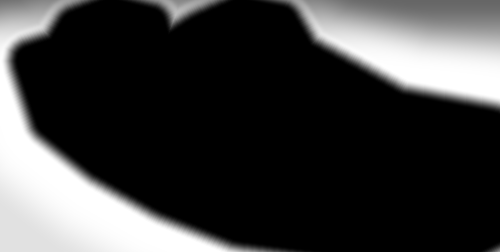
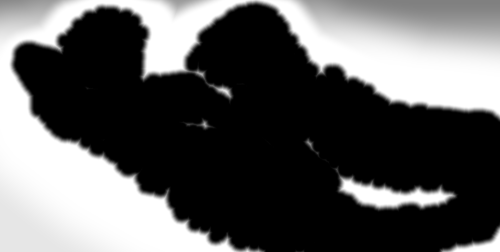
Woodland two-shot: her eyes, the grass between them, upright loading
- Her eye openings reach her lower lids: her irises are large, and an
  opening cut above their lower rims left a dark arc of the old iris
  behind when her eyes moved toward him.
- Their bed's grass sways where it really is: keyed to the figures' own
  pixels (colour-segmented), not the coarse body outline that also covered
  the grass between them and round their hands. The two-shot now moves
  5-7% of the frame in half a second (the second wide: 5.2%), from 2%.
- Her head turned to him in the wide loads on its own; the two-shot's art
  loads only for screens that show it (upright never does), and only with
  her look in the wide (a turn away must not undo it).

Claude-Session: https://claude.ai/code/session_01KQPjgRSBPiZRUxNQL4z1Q2

diff --git a/src/memory/runtime.ts b/src/memory/runtime.ts
@@ -7,7 +7,8 @@ import { memorySchema } from './sheets';
 import { sheetSource } from './theatre';
 import type { Lifecycle, MemoryFrame, ReleaseReason } from './types';
 import type { WindowLayer, LayerKind } from '../world/MemoryWindow';
-import { LivingScene, type FigureArt, type LivingArt, type NearArt, type Eye } from './living/LivingScene';
+import { LivingScene, type FigureArt, type HeadCels, type LivingArt, type NearArt, type Eye } from './living/LivingScene';
+import { UPRIGHT } from '../world/living/Immersion';
 import { WOODLAND as WOODLAND_SPEC, type LivingSpec } from './living/woodland';
 
 /**
@@ -206,7 +207,7 @@ async function manifestOf(base: string, art: string): Promise<ArtManifest> {
  * Fetch a memory's art ahead (when its line is armed), so beginning it waits on nothing but
  * decoding. Sounds are fetched by the voices' own loader when the memory is prepared.
  */
-export async function prefetch(id: string, variant: string, host: Pick<RuntimeHost, 'quality' | 'base'>): Promise<void> {
+export async function prefetch(id: string, variant: string, host: Pick<RuntimeHost, 'quality' | 'base' | 'screen'>): Promise<void> {
   const def = MEMORIES[id];
   if (!def) return;
   const v = def.variants.includes(variant) ? variant : def.variants[0];
@@ -216,15 +217,20 @@ export async function prefetch(id: string, variant: string, host: Pick<RuntimeHo
     const manifest = await manifestOf(base, def.art);
     const lm = manifest.living?.[v];
     const wall = manifest.variants[v].filter((l) => !(lm && l.name === 'scene')).map((l) => ({ file: l.file, suffix }));
-    const files = lm ? [...wall, ...livingFiles(lm, suffix)] : wall;
+    const files = lm ? [...wall, ...livingFiles(lm, suffix, upright(host))] : wall;
     await Promise.all(files.map((f) => fetchBlob(`${base}${def.art}/${f.file}${f.suffix}.webp`)));
   } catch {
     /* it will be fetched again when it is needed */
   }
 }
 
-/** A living scene's files (maps, grade and sky have one size only). */
-function livingFiles(lm: LivingManifest, suffix: string): { file: string; suffix: string }[] {
+/** An upright screen (it never shows the two-shot: its 16:9 frame would hold one face there). */
+function upright(host: Pick<RuntimeHost, 'screen'>): boolean {
+  return !!host.screen && host.screen.width / host.screen.height < UPRIGHT;
+}
+
+/** A living scene's files (maps, grade and sky have one size only); the two-shot's only for a screen that shows it. */
+function livingFiles(lm: LivingManifest, suffix: string, upright = false): { file: string; suffix: string }[] {
   const out = [{ file: lm.plate, suffix }, { file: lm.maps, suffix: '' }];
   if (lm.grade) out.push({ file: lm.grade, suffix: '' });
   if (lm.after) out.push({ file: lm.after, suffix });
@@ -233,7 +239,8 @@ function livingFiles(lm: LivingManifest, suffix: string): { file: string; suffix
   if (lm.flowers) out.push({ file: lm.flowers.file, suffix });
   if (lm.clouds) out.push({ file: lm.clouds.mask, suffix: '' }, { file: lm.clouds.file, suffix: '' }, { file: lm.clouds.after, suffix: '' });
   if (lm.order) out.push({ file: lm.order, suffix: '' });
-  if (lm.near && lm.figures?.heads) out.push({ file: lm.near.file, suffix }, { file: lm.near.lids, suffix }, { file: lm.near.heads.file, suffix }, { file: lm.near.ground.file, suffix: '' }, { file: lm.near.maps, suffix: '' }, { file: lm.figures.heads.file, suffix });
+  if (lm.figures?.heads) out.push({ file: lm.figures.heads.file, suffix });
+  if (lm.near && lm.figures?.heads && !upright) out.push({ file: lm.near.file, suffix }, { file: lm.near.lids, suffix }, { file: lm.near.heads.file, suffix }, { file: lm.near.ground.file, suffix: '' }, { file: lm.near.maps, suffix: '' });
   return out;
 }
 
@@ -298,18 +305,29 @@ export async function prepare(id: string, variant: string, host: RuntimeHost): P
       ]);
       // (The pencil's order is mipmapped, unlike the scene's layers: seen from across the room.)
       const orderP = lm.order ? loadLayer(url(lm.order, ''), { data: true }).then((r) => (extra.push(r), r)) : Promise.resolve(null);
-      // The two-shot and her look (drawn in either shot): all of it, or none (the wide then plays
-      // as it was, her head as the panel has it; the memory still plays).
+      // Her look in the wide (her head turned to him at its size), if it can be had (else her
+      // head stays as the panel has it; the memory still plays).
+      const headsP = (async (): Promise<HeadCels | null> => {
+        const h = lm.figures?.heads;
+        if (!h) return null;
+        try {
+          const r = await loadLayer(url(h.file), { living: true });
+          extra.push(r);
+          return { texture: r.texture, box: h.box, cells: h.cells };
+        } catch {
+          return null;
+        }
+      })();
+      // The two-shot: all of it, or none (its shot is then the wide), and only for a screen that
+      // shows it (upright, it is never shown).
       const nearP = (async (): Promise<NearArt | null> => {
         const n = lm.near;
-        const wh = lm.figures?.heads;
-        if (!n || !wh) return null;
+        if (!n || !lm.figures?.heads || upright(host)) return null;
         const got = await Promise.allSettled([
           loadLayer(url(n.file), { living: true }),
           loadLayer(url(n.lids), { living: true }),
           loadLayer(url(n.heads.file), { living: true }),
           loadLayer(url(n.ground.file, ''), { living: true }),
-          loadLayer(url(wh.file), { living: true }),
           loadLayer(url(n.maps, ''), { living: true, data: true }),
         ]);
         const ok = got.every((r) => r.status === 'fulfilled');
@@ -319,12 +337,11 @@ export async function prepare(id: string, variant: string, host: RuntimeHost): P
           else r.value.texture.dispose(), r.value.bitmap.close();
         }
         if (!ok) return null;
-        const [atlas, lids, heads, ground, wide, maps] = got.map((r) => (r as PromiseFulfilledResult<{ texture: THREE.Texture }>).value.texture);
+        const [atlas, lids, heads, ground, maps] = got.map((r) => (r as PromiseFulfilledResult<{ texture: THREE.Texture }>).value.texture);
         return {
           texture: atlas,
           lids,
           heads: { texture: heads, box: n.heads.box, cells: n.heads.cells },
-          wideHeads: { texture: wide, box: wh.box, cells: wh.cells },
           ground,
           maps,
           pixels: n.pixels,
@@ -336,10 +353,10 @@ export async function prepare(id: string, variant: string, host: RuntimeHost): P
         };
       })();
       // (All of it settled before any failure is thrown, so nothing loads after it is let go.)
-      const bad = (await Promise.allSettled([mainP, orderP, nearP])).find((r) => r.status === 'rejected') as PromiseRejectedResult | undefined;
+      const bad = (await Promise.allSettled([mainP, orderP, headsP, nearP])).find((r) => r.status === 'rejected') as PromiseRejectedResult | undefined;
       if (bad) throw bad.reason;
       const [plate, maps, grade, sky, fig, lids, after, flowers, skyMask, clouds, cloudsAfter] = await mainP;
-      const [orderR, near] = [await orderP, await nearP];
+      const [orderR, heads, near] = [await orderP, await headsP, await nearP];
       const order = orderR?.texture ?? null;
       const art: LivingArt = {
         plate,
@@ -350,7 +367,9 @@ export async function prepare(id: string, variant: string, host: RuntimeHost): P
         flowers: flowers && lm.flowers ? { texture: flowers, heads: lm.flowers.heads } : null,
         clouds: lm.clouds && skyMask && clouds && cloudsAfter ? { mask: skyMask, day: clouds, after: cloudsAfter, box: lm.clouds.box, pad: lm.clouds.pad } : null,
         figures: lm.figures && fig && lids ? { ...lm.figures, texture: fig, lids } : null,
-        near,
+        heads,
+        // (Without her look in the wide, no two-shot: a turn away would undo her look.)
+        near: heads ? near : null,
         size: manifest.plate ?? [1672, 941],
       };
       const size = targetSize(host);

diff --git a/tests/living-memory.test.ts b/tests/living-memory.test.ts
@@ -14,7 +14,7 @@ import { MemoryPlaybackController } from '../src/memory/MemoryPlaybackController
 import { renderCicadas, renderWoods, renderLast, cicada, heard, leavesPan, RATE, TIMES } from '../src/memory/synthWoods';
 import state from '../src/memory/theatre-state.json';
 import manifest from '../public/memories/woodland/manifest.json';
-import { LivingScene, type LivingArt, type NearArt } from '../src/memory/living/LivingScene';
+import { LivingScene, type HeadCels, type LivingArt, type NearArt } from '../src/memory/living/LivingScene';
 import { DEFORMERS, livingMaterials } from '../src/world/living/materials';
 
 // The woodland memory (docs/reviews/2026-10-woodland.md): its people's involuntary life, the
@@ -573,10 +573,15 @@ describe('the scene, as built (no GL: what it would draw and let go)', () => {
     return {
       texture: tex(), lids: tex(), ground: tex(), maps: tex(),
       heads: { texture: tex(), box: n.heads.box, cells: n.heads.cells },
-      wideHeads: { texture: tex(), box: wh.box, cells: wh.cells },
       pixels: n.pixels, gutter: n.gutter, reach: n.reach, lidBox: n.lidBox, groundBox: n.ground.box,
       eyes: [...n.eyes.a, ...n.eyes.b] as NearArt['eyes'],
-    };
+      // (Her look in the wide: the scene's own, given with it below.)
+      wide: { texture: tex(), box: wh.box, cells: wh.cells },
+    } as NearArt & { wide: HeadCels };
+  };
+  const both = () => {
+    const n = near() as NearArt & { wide: HeadCels };
+    return { art: { ...art(), near: n, heads: n.wide }, n };
   };
   const gl = { getRenderTarget: () => null, setRenderTarget: () => {}, render: () => {} } as unknown as THREE.WebGLRenderer;
   const view = { view: new THREE.Vector4(0, 0, 1, 1), parallax: new THREE.Vector2() };
@@ -616,7 +621,7 @@ describe('the scene, as built (no GL: what it would draw and let go)', () => {
   });
 
   it('the two-shot: only for someone inside; gives way past 14° and comes back once they have settled, never near a beat nor in its last 2 s', () => {
-    const s = new LivingScene({ ...art(), near: near() }, SPEC, { width: 64, height: 36, noise: tex(), reduced: false });
+    const s = new LivingScene(both().art, SPEC, { width: 64, height: 36, noise: tex(), reduced: false });
     const v = { 'scene.shot': 1 };
     expect(s.choose(v, { inside: true, turn: 0, t: 16 })).toBe(1);
     // Not inside (seen on the wall, or upright: the App says so): the wide.
@@ -646,11 +651,16 @@ describe('the scene, as built (no GL: what it would draw and let go)', () => {
     // The next shot asks afresh.
     expect(s.choose({ 'scene.shot': 0 }, { inside: true, turn: 0, t: 27.1 })).toBe(0);
     s.dispose();
+    // Without her look drawn in the wide there is no two-shot (a turn away would undo her look).
+    const { n } = both();
+    const none = new LivingScene({ ...art(), near: n, heads: null }, SPEC, { width: 64, height: 36, noise: tex(), reduced: false });
+    expect(none.choose(v, { inside: true, turn: 0, t: 16 })).toBe(0);
+    none.dispose();
   });
 
   it('her head turned to him is drawn in either shot, his look only close; the two-shot is the panel at its reach, lit as the wide', () => {
-    const n = near();
-    const s = new LivingScene({ ...art(), near: n }, SPEC, { width: 64, height: 36, noise: tex(), reduced: false });
+    const { art: a, n } = both();
+    const s = new LivingScene(a, SPEC, { width: 64, height: 36, noise: tex(), reduced: false });
     const m = livingMaterials(tex());
     const u = m.people.uniforms;
     const v = { 'scene.shot': 1, 'figure:b.cel': 1, 'figure:a.eyes': 1 };
@@ -671,7 +681,7 @@ describe('the scene, as built (no GL: what it would draw and let go)', () => {
     s.choose(v, { inside: true, turn: 0.3, t: 19.5 });
     s.update(gl, 19.5, v, view);
     expect(u.uNear.value).toBe(0);
-    expect(u.uHeads.value).toBe(n.wideHeads.texture);
+    expect(u.uHeads.value).toBe(n.wide.texture);
     expect((u.uHeadCel.value as THREE.Vector2).toArray()).toEqual([0, 2]);
     expect((u.uGaze.value as THREE.Vector2).length()).toBe(0);
     expect(u.uFigU.value).toBe(1);

diff --git a/src/memory/living/LivingScene.ts b/src/memory/living/LivingScene.ts
@@ -65,9 +65,8 @@ export interface NearArt {
   texture: THREE.Texture;
   /** Their lids shut, half, and her sleeve (rows), at this size, over `lidBox` (sheet px, y down: x0, y0, w, h). */
   lids: THREE.Texture;
-  /** Her head turned to him, at this size, and at the wide's. */
+  /** Her head turned to him, at this size. */
   heads: HeadCels;
-  wideHeads: HeadCels;
   /** The ground round them, out of focus. */
   ground: THREE.Texture;
   /** Where their bed's grass moves in the air (R, over the atlas's reach). */
@@ -94,7 +93,9 @@ export interface LivingArt {
   after: THREE.Texture | null;
   sky: { texture: THREE.Texture; box: [number, number, number, number] } | null;
   figures: FigureArt | null;
-  /** The two-shot and her look, if they could be had (its shot is then the wide, her head as the panel has it). */
+  /** Her head turned to him, at the wide's size (her look, in the wide), if it could be had. */
+  heads?: HeadCels | null;
+  /** The two-shot, if it could be had and her look in the wide too (else its shot is the wide). */
   near?: NearArt | null;
   /** The plate's pixels. */
   size: [number, number];
@@ -434,8 +435,9 @@ export class LivingScene {
       u.uFigU.value = 1;
       (u.uLidBox.value as THREE.Vector4).set(0, 0, 1, 1);
       (u.uPlace.value as THREE.Vector4).set(...f.place);
-      u.uHeads.value = n?.wideHeads.texture ?? this.m.empty;
-      (u.uHeadBox.value as THREE.Vector4).set(...(n ? box(n.wideHeads.box) : ([0, 0, 0, 0] as const)));
+      const h = this.art.heads;
+      u.uHeads.value = h?.texture ?? this.m.empty;
+      (u.uHeadBox.value as THREE.Vector4).set(...(h ? box(h.box) : ([0, 0, 0, 0] as const)));
       (u.uGaze.value as THREE.Vector2).set(0, 0);
       (u.uGazeB.value as THREE.Vector2).set(0, 0);
       u.uMaps.value = this.art.maps;
@@ -473,7 +475,7 @@ export class LivingScene {
     const tapping = !!o.tap && o.tap.w > 0 && o.tap.z < 2;
     // (The shot as chosen for this frame.)
     const shot = this.shot;
-    const two = shot > 0 && !!this.art.near && !!this.art.figures;
+    const two = shot > 0 && this.hasNear;
     // A cut (the people, the evening, the shot, her head's drawing) is drawn on its own frame, not
     // at the next drawing.
     const state = `${(v['scene.after'] ?? 0) >= 0.5 ? 1 : 0}|${(v['scene.people'] ?? 1) > 0.001 ? 1 : 0}|${shot}|${Math.round(v['figure:b.cel'] ?? 0)}`;
@@ -598,9 +600,9 @@ export class LivingScene {
     return sp.beats.every((b) => Math.abs(t - b) >= 0.5);
   }
 
-  /** Whether the two-shot (and her look in either shot) could be had. */
+  /** Whether the two-shot could be had (with her look drawn in the wide too: every state in both shots). */
   get hasNear(): boolean {
-    return !!this.art.near && !!this.art.figures;
+    return !!this.art.near && !!this.art.figures && !!this.art.heads;
   }
 
 
@@ -626,7 +628,7 @@ export class LivingScene {
     chest('chestB', s.chest.b, bb * deep);
     // Her head as the artist redrew it (`figure:b.cel`: 0 the panel's, 1 turned to him), held, in
     // either shot; while it is shown, nothing of the rig made for the panel's face moves it.
-    const heads = this.art.near ? (near ? this.art.near.heads : this.art.near.wideHeads) : null;
+    const heads = near ? this.art.near!.heads : this.art.heads ?? null;
     const cel = heads ? Math.max(0, Math.min(heads.cells - 1, Math.round(val('figure:b.cel', 0)))) : 0;
     (u.uHeadCel.value as THREE.Vector2).set(cel >= 1 ? cel - 1 : -1, heads?.cells ?? 1);
     const redrawn = cel >= 1;

diff --git a/src/App.ts b/src/App.ts
@@ -7,7 +7,7 @@ import { Lighting, shadowMapSize } from './world/Lighting';
 import { lookFor, parseLook, LOOK_NAMES, LOOKS, type Look, type LookName } from './world/Style';
 import { MemoryLight } from './world/MemoryLight';
 import { MemoryWindow } from './world/MemoryWindow';
-import { Immersion } from './world/living/Immersion';
+import { Immersion, UPRIGHT } from './world/living/Immersion';
 import { Inside } from './world/living/Inside';
 import { washInputs, washOf } from './world/living/wash';
 import { warmLiving } from './world/living/materials';
@@ -994,7 +994,7 @@ export class App {
       this.prefetched.add(m.id);
       const variant = (readMemoryCounts()[m.id] ?? 0) > 0 ? m.variants.revisit[0] ?? m.variants.first : m.variants.first;
       const idle = (window as { requestIdleCallback?: (f: () => void) => void }).requestIdleCallback ?? ((f: () => void) => setTimeout(f, 200));
-      idle(() => void this.memoryChunk().then((rt) => rt.prefetch(m.id, variant, { quality: this.prefs.quality })));
+      idle(() => void this.memoryChunk().then((rt) => rt.prefetch(m.id, variant, { quality: this.prefs.quality, screen: { width: innerWidth, height: innerHeight } })));
     }
   }
   private frameCount = 0;
@@ -1041,7 +1041,7 @@ export class App {
       return;
     }
     const aspect = innerWidth / innerHeight;
-    const upright = aspect < 0.9;
+    const upright = aspect < UPRIGHT;
     // The shot on now, chosen first so the view frames it from its first frame. The two-shot only
     // for someone taken all the way in; turned 14° from it, the wide until they settle facing it
     // again (interaction and QA reviews, 2026-10-17 and 18). Never on an upright screen: there a

diff --git a/src/world/living/materials.ts b/src/world/living/materials.ts
@@ -364,14 +364,16 @@ const FRAG = /* glsl */ `
       vec2 uvF = vUv;
       if (uNear > 0.5) {
         // Their bed's grass in the air (the two-shot): as the wide's grass moves where they lie
-        // (the same wind and clumps, at the same place on the painting), never within 25 sheet px
-        // of them (its map, uMaps here: R), less where it is out of focus.
+        // (the same wind and clumps, at the same place on the painting), never on them nor within
+        // 6 sheet px of them (its map, uMaps here: R), less where it is out of focus. (Weaker, and
+        // kept off the grass between them, the heart moved half as much as the second wide: the
+        // artist's "still images" again.)
         float sw = texture2D(uMaps, vec2(vUv.x / uFigU, vUv.y)).r;
         if (sw > 0.0) {
           vec2 at = uWidePlace.xy + vUv * uWidePlace.zw;
           float clump = sin(uTime * 3.4 + texture2D(uNoise, at * vec2(0.7, 0.45) + 0.31).r * 6.2831);
-          float dx = (windAt(at.x).x * 3.0 + clump * 0.9) * sw * uMotion;
-          dx = 5.0 * dx / sqrt(25.0 + dx * dx);
+          float dx = (windAt(at.x).x * 5.0 + clump * 1.8) * sw * uMotion;
+          dx = 7.0 * dx / sqrt(49.0 + dx * dx);
           uvF += vec2(dx, -0.25 * abs(dx)) / uSheet;
         }
       }

diff --git a/tests/inside.test.ts b/tests/inside.test.ts
@@ -217,12 +217,11 @@ function app(o: { reduced?: boolean } = {}) {
   const near: NearArt = {
     texture: tex(), lids: tex(), ground: tex(), maps: tex(),
     heads: { texture: tex(), box: n.heads.box, cells: n.heads.cells },
-    wideHeads: { texture: tex(), box: wh.box, cells: wh.cells },
     pixels: n.pixels, gutter: n.gutter, reach: n.reach, lidBox: n.lidBox, groundBox: n.ground.box,
     eyes: [...n.eyes.a, ...n.eyes.b] as NearArt['eyes'],
   };
   const scene = new LivingScene(
-    { plate: tex(), maps: tex(), grade: null, after: null, sky: null, flowers: null, clouds: null, size: manifest.plate as [number, number], near,
+    { plate: tex(), maps: tex(), grade: null, after: null, sky: null, flowers: null, clouds: null, size: manifest.plate as [number, number], near, heads: { texture: tex(), box: wh.box, cells: wh.cells },
       figures: { ...(lm.figures as unknown as NonNullable<LivingArt['figures']>), texture: tex(), lids: tex() } },
     SPEC, { width: 64, height: 36, noise: tex(), reduced: false },
   );

diff --git a/src/world/living/Immersion.ts b/src/world/living/Immersion.ts
@@ -134,6 +134,9 @@ export class Immersion {
 
 const clamp01 = (x: number) => (x < 0 ? 0 : x > 1 ? 1 : x);
 
+/** Narrower than this (width / height), a screen is upright: it sees a column of the painting. */
+export const UPRIGHT = 0.9;
+
 /**
  * The painting's corners when it covers the screen (screen uv; 00, 10, 11, 01), a little over so
  * its ragged edge is never seen. `focus` (painting uv) is kept at the screen's centre, as far as

diff --git a/scripts/two-shot.py b/scripts/two-shot.py
@@ -18,7 +18,7 @@ itself. Writes public/memories/woodland/afternoon/:
                  b-look-full-b.webp: her mouth at rest), and the soft region it is laid in by
     near-ground  the meadow round and beyond them: the day painting's own grass where they lie,
                  out of focus by its distance from the camera
-    near-maps    where their bed's grass moves in the air (R: none within 25 sheet px of them, less
+    near-maps    where their bed's grass moves in the air (R: none on them nor within 6 sheet px, less
                  where it is out of focus), at half the sheet's size
     heads        her head turned to him at the wide's size (its people: scripts/cut-woodland.py), so
                  her look is drawn in either shot
@@ -62,7 +62,9 @@ TAKE = 'b'
 # radius). A look moves the iris along the opening, the white filling in where it was; the lash
 # line, outside the opening, stays as drawn.
 EYES_A = [((211.0, 89.3, 10.3, 3.6, -0.40), (212.5, 87.2, 4.1)), ((254.0, 82.2, 6.6, 3.5, 0.23), (252.8, 81.9, 3.5))]
-EYES_B = [((500.6, 69.0, 9.8, 4.0, -0.42), (502.8, 67.5, 5.2)), ((539.3, 59.0, 7.0, 3.3, 0.29), (538.5, 58.5, 4.9))]
+# (Hers reach down to her lower lids: her irises are large, and an opening cut above their lower
+# rims left a dark arc of the old iris behind when her eyes moved.)
+EYES_B = [((501.0, 69.8, 9.9, 4.7, -0.42), (502.9, 67.6, 5.4)), ((539.0, 59.6, 7.3, 3.9, 0.29), (538.5, 58.7, 5.0))]
 # How far their bed's grass takes the colour of the painting's grass where they lie (0..1).
 GRADE = 0.7
 # The painting's grass where they lie (plate px: x0, y0, x1, y1): the bed's colour, and the ground.
@@ -334,15 +336,35 @@ def boxed(region, step=5):
     return x0, y0, x1 - x0, y1 - y0
 
 
-def sway_map(k=0.5):
+def figures_alone(straight, a):
+    """The two of them without their grass (sheet px, 0/1): what the panel draws that isn't grass
+    (grass: yellow to green and coloured enough), in pieces big enough to be them, small holes
+    (shadows in their clothes that read as green) filled; the grass between them stays grass."""
+    hsv = cv2.cvtColor((np.clip(straight, 0, 1) * 255).astype(np.uint8), cv2.COLOR_RGB2HSV).astype(np.float32)
+    h, s, v = hsv[..., 0] * 2, hsv[..., 1] / 255, hsv[..., 2] / 255
+    grass = (h >= 38) & (h <= 120) & (s > 0.2) & (v > 0.12)
+    body = cv2.morphologyEx(((a > 0.3) & ~grass).astype(np.uint8), cv2.MORPH_OPEN, np.ones((3, 3), np.uint8))
+    n, lab, st, _ = cv2.connectedComponentsWithStats(body, connectivity=8)
+    big = np.zeros(n, bool)
+    big[1:] = st[1:, cv2.CC_STAT_AREA] > 400
+    body = cv2.morphologyEx(big[lab].astype(np.uint8), cv2.MORPH_CLOSE, cv2.getStructuringElement(cv2.MORPH_ELLIPSE, (9, 9)))
+    n, lab, st, _ = cv2.connectedComponentsWithStats((1 - body).astype(np.uint8), connectivity=4)
+    small = np.zeros(n, bool)
+    small[1:] = st[1:, cv2.CC_STAT_AREA] < 250
+    return body | small[lab].astype(np.uint8)
+
+
+def sway_map(straight1, a1, k=0.5):
     """Where their bed's grass moves in the air (0..1, over the atlas's reach at `k` px a sheet px):
-    none on them or within 25 sheet px of them (their outline never wobbles), all of it from 60
-    away; less where it is out of focus (motion belongs to the near, sharp grass: the technical
-    artist's review). The heart was nearly still without it: the skeptic's review, 2026-10-18."""
-    w, h = round(REACH * k), round(PH * k)
-    d = body_distance(w, h, k)
-    y = (np.mgrid[0:h, 0:w][0].astype(np.float32) + 0.5) / k
-    return cut.smooth(25, 60, d) * (1 - 0.6 * cut.smooth(2, 9, defocus(d, y)))
+    none on them (their own pixels, not the coarse outline: the grass between them, round their
+    hands, is the most seen in the shot) nor within 6 sheet px of them, all of it from 22 away;
+    less where it is out of focus (motion belongs to the near, sharp grass: the technical artist's
+    review). The heart was nearly still without it: the skeptic's review, 2026-10-18."""
+    body = figures_alone(straight1, a1)
+    d = cv2.distanceTransform(1 - body, cv2.DIST_L2, 5)
+    y = np.mgrid[0:PH, 0:PW][0].astype(np.float32)
+    sw = cut.smooth(6, 22, d) * (1 - 0.5 * cut.smooth(2, 9, defocus(body_distance(PW, PH, 1), y)))
+    return cv2.resize(sw[:, :REACH], (round(REACH * k), round(PH * k)), interpolation=cv2.INTER_AREA)
 
 
 def ground(day):
@@ -405,7 +427,8 @@ def main():
     rt = reg_t[box_t]
     cut.save(np.concatenate([wide[box_t], np.dstack([rt, rt, rt, np.ones_like(rt)])], 1), os.path.join(a_dir, 'heads.webp'), cut.LIVE, q=94)
 
-    sw = sway_map()
+    st1, a1 = keyed(sheet1[:PH], 1)
+    sw = sway_map(st1, a1)
     cut.save(np.dstack([sw, sw, sw]), os.path.join(a_dir, 'near-maps.webp'), {'': cut.W}, lossless=True)
 
     # (Out of focus: stored at half its size; it has nothing finer.)
